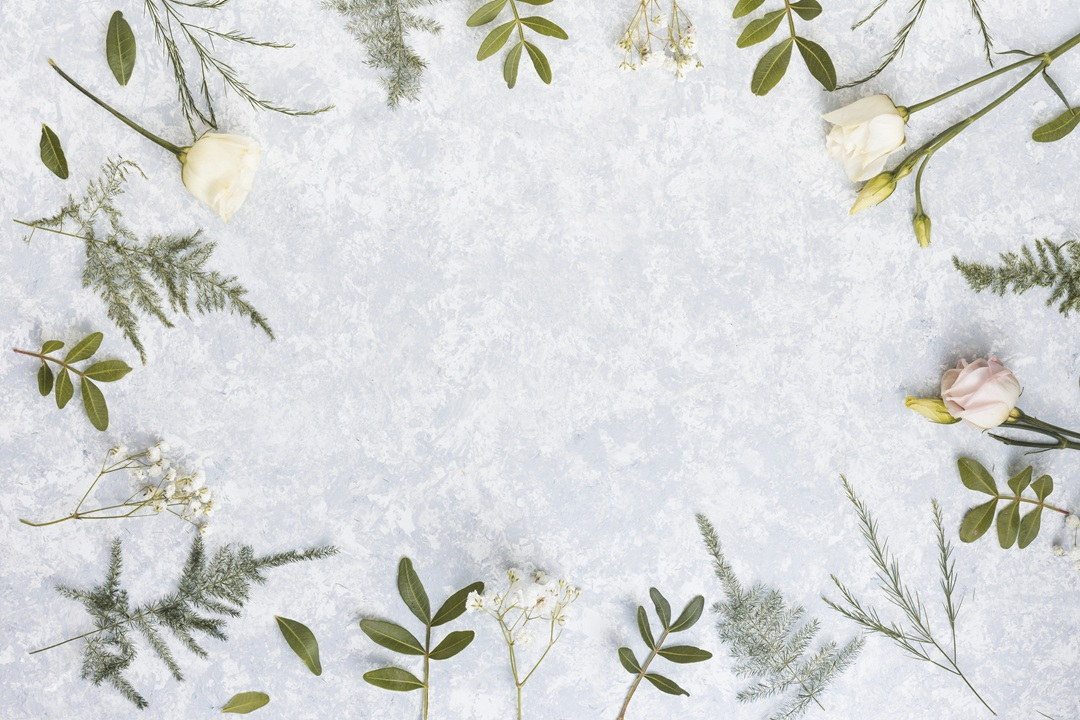
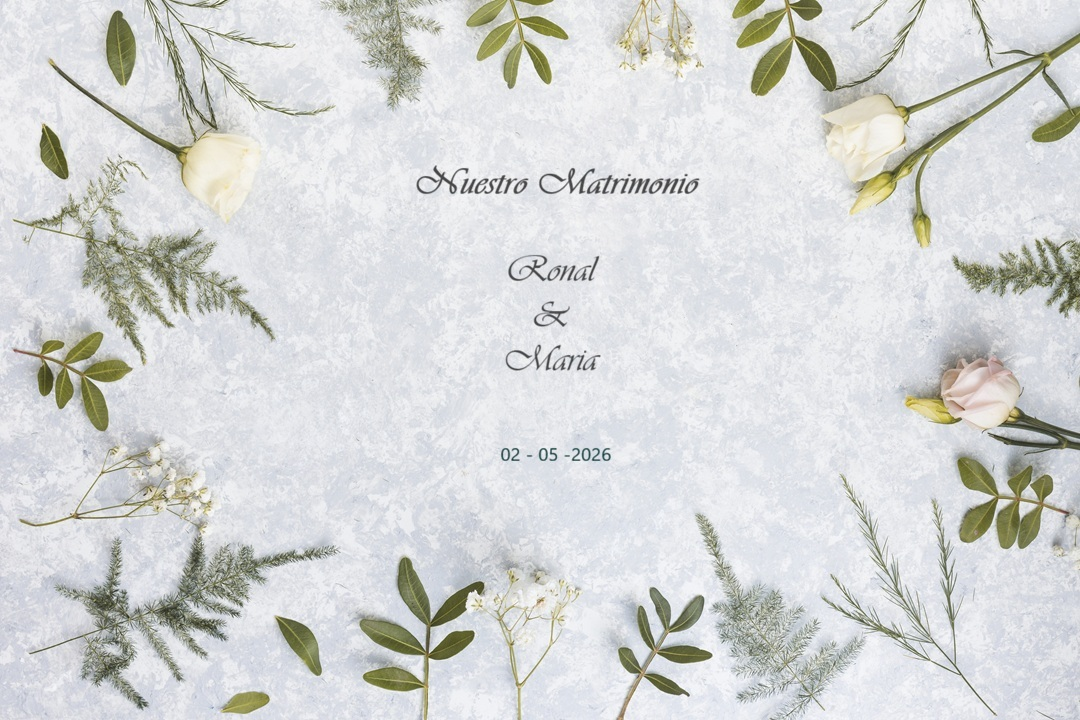
add padrinos

diff --git a/src/data/events/ronalymaria.ts b/src/data/events/ronalymaria.ts
@@ -47,15 +47,21 @@ export const ronalymaria: EventData = {
     bg: "#F5F5F0",
   },
   recommendationsTitle: "Sugerencias de regalo",
-  recommendationsDescription: "El mejor regalo es que estés presente en este día, pero si deseas hacernos un obsequio, aquí algunas sugerencias.",
+  recommendationsDescription:
+    "El mejor regalo es que estés presente en este día, pero si deseas hacernos un obsequio pueden dejarlo en: 📍 Manuel Arévalo 3era etapa Mz A 38 lote 30 Botica Malena (Frente al colegio Divino Jesús), tambien te dejamos algunas sugerencias.",
   giftRecommendations: [
-    "Viajes",
-    "Cenas",
-    "Electrodomésticos",
-    "Efectivo",
-    "Transferencia bancaria",
+    "✈ Viajes",
+    "🍽 Cenas",
+    "🔌 Electrodomésticos",
+    "💰 Efectivo",
+    "🏦 Transferencia BCP: 57070984724094",
+    "🏦 Transferencia Interbancaria: 00257017098472409407",
   ],
   showVideoBackground: false,
+  sponsors: {
+    groom: ["Carlos A. Ramos Bazán", "Lucy M. Sánchez Pavón "],
+    bride: ["Yeiner E. Vasquez Valle", "Esther Arenas Limas"],
+  },
   backgroundVideo: {
     // Video para la página de invitación
     invitation: {

diff --git a/src/types/components.ts b/src/types/components.ts
@@ -172,4 +172,9 @@ export type EventData = {
   giftRecommendations?: string[];
   /** Nombre del sitio para Open Graph (og:site_name). Si no se define, se deriva del tipo de evento y el celebrant. */
   ogSiteName?: string;
+  /** Bodas: padrinos por lado (novio / novia). Si no se define, no se muestra el bloque. */
+  sponsors?: {
+    groom: string[];
+    bride: string[];
+  };
 };
